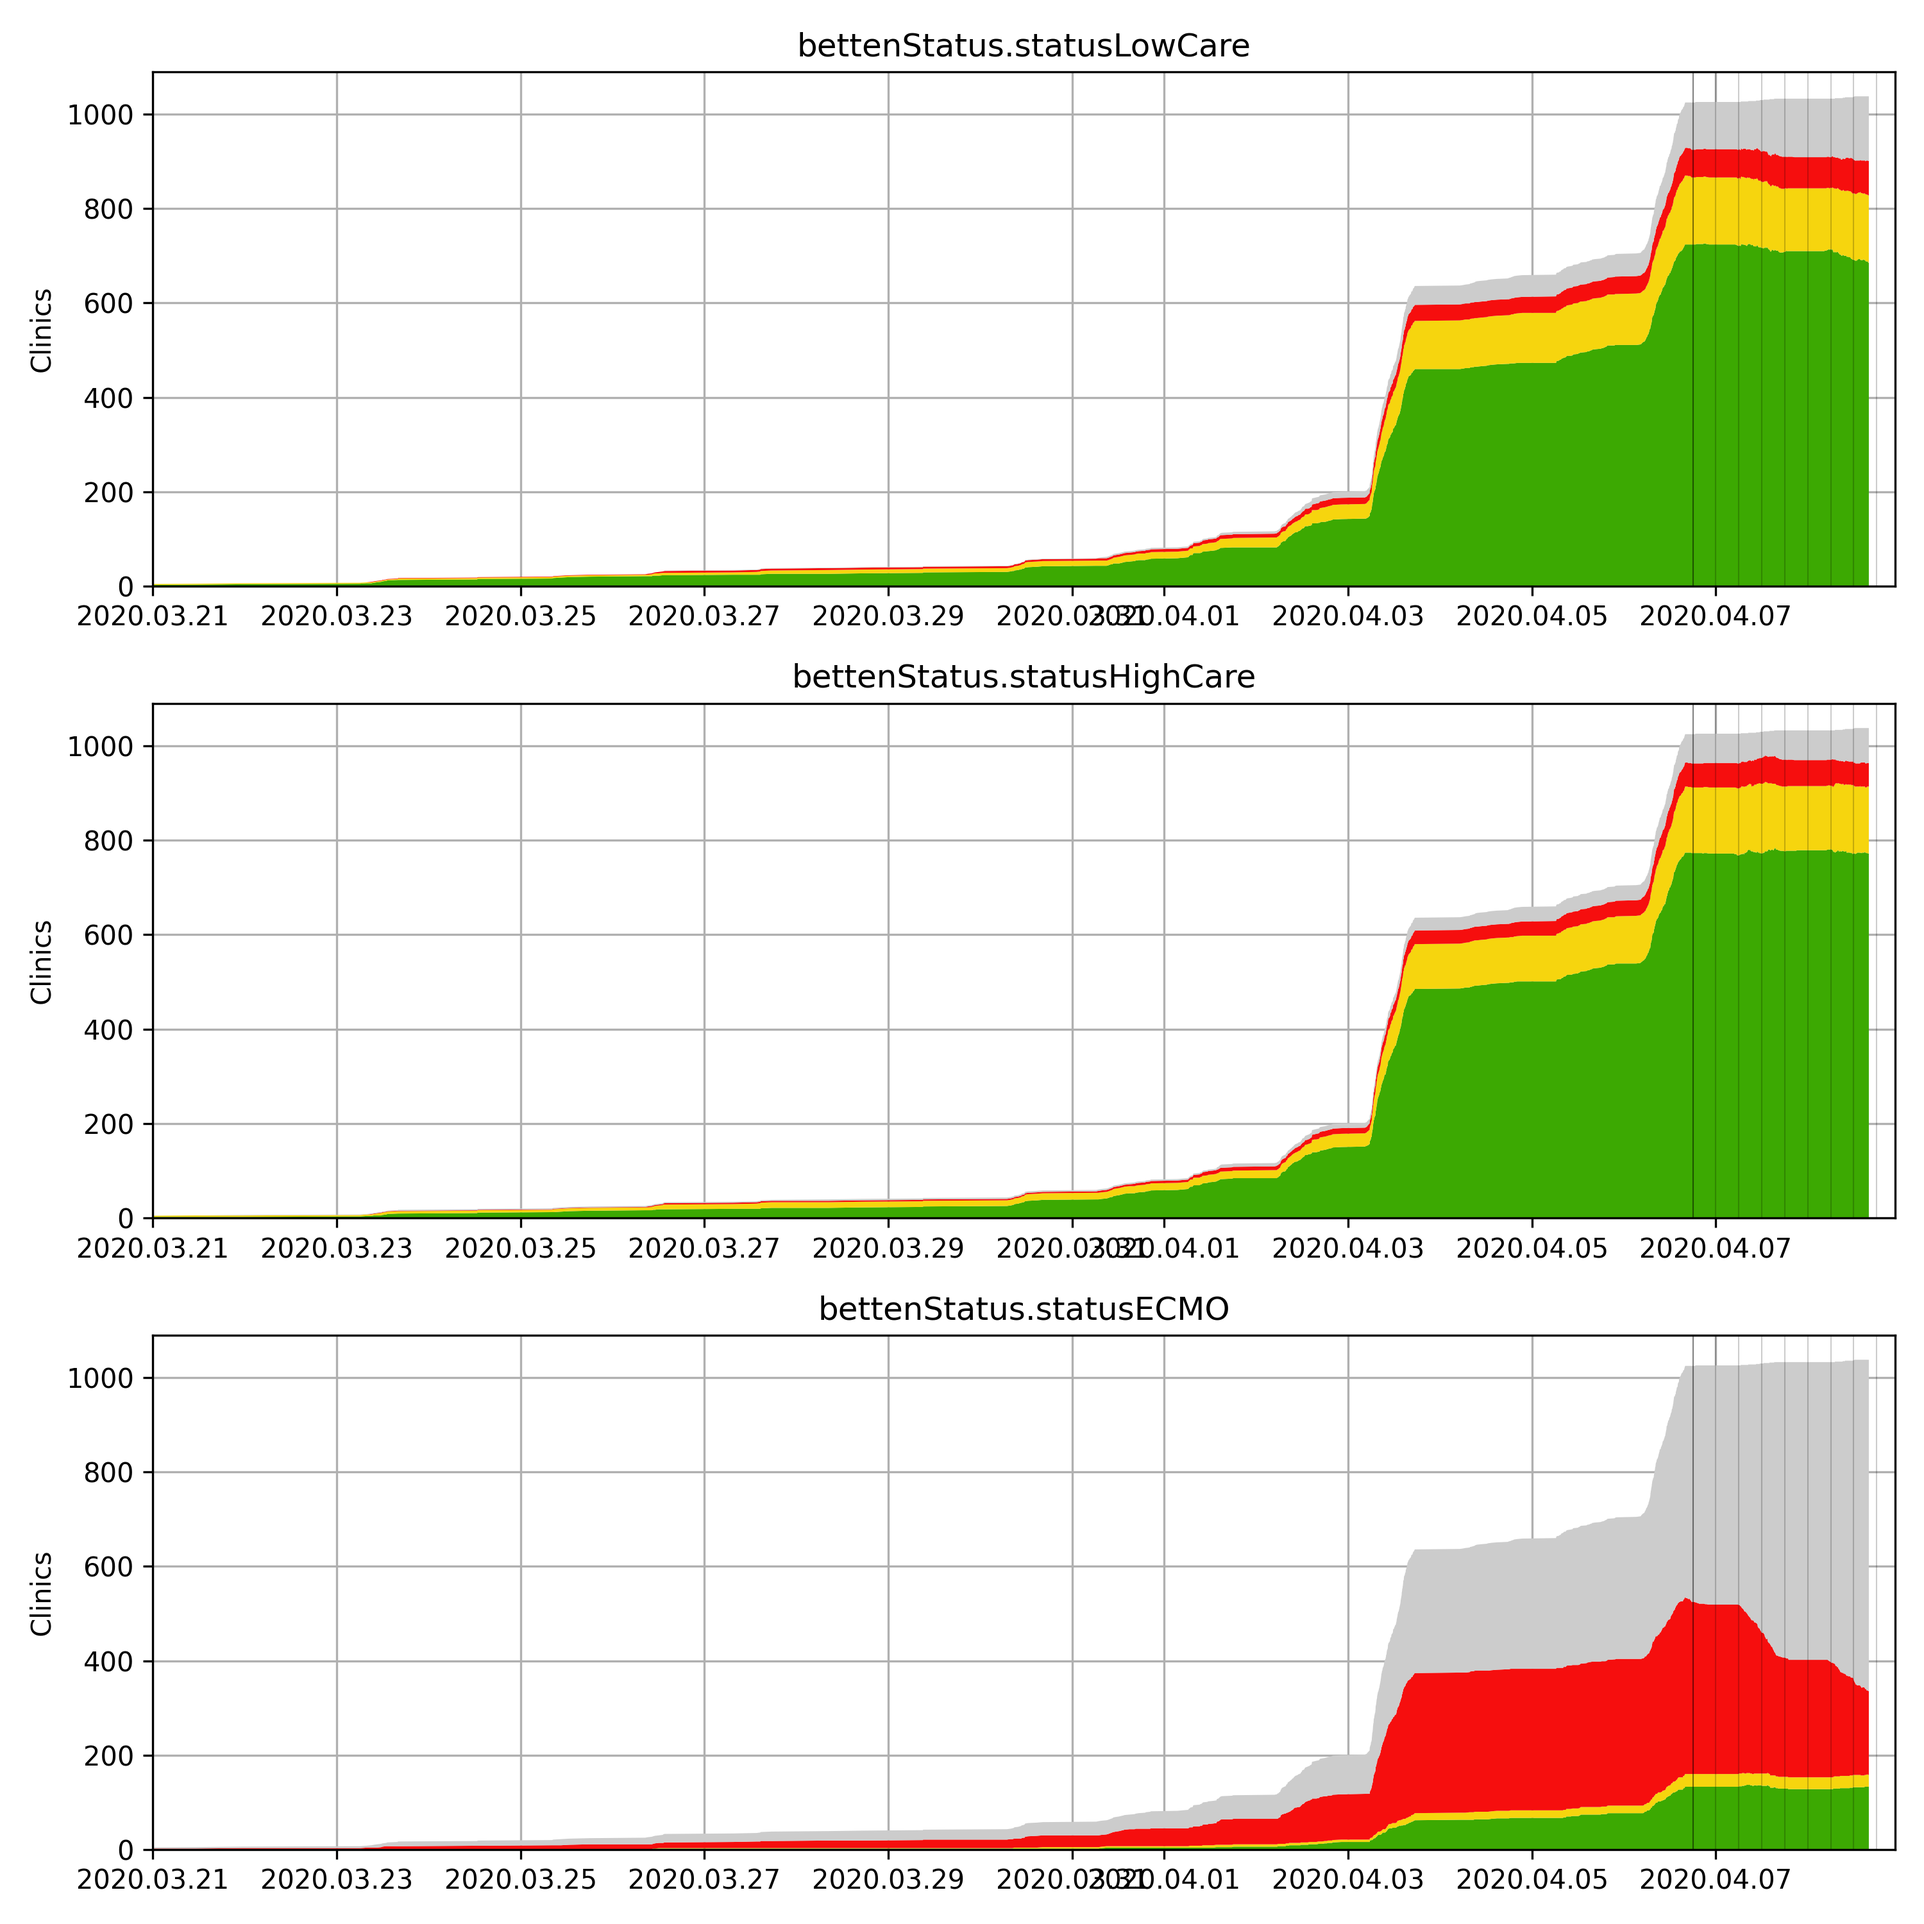
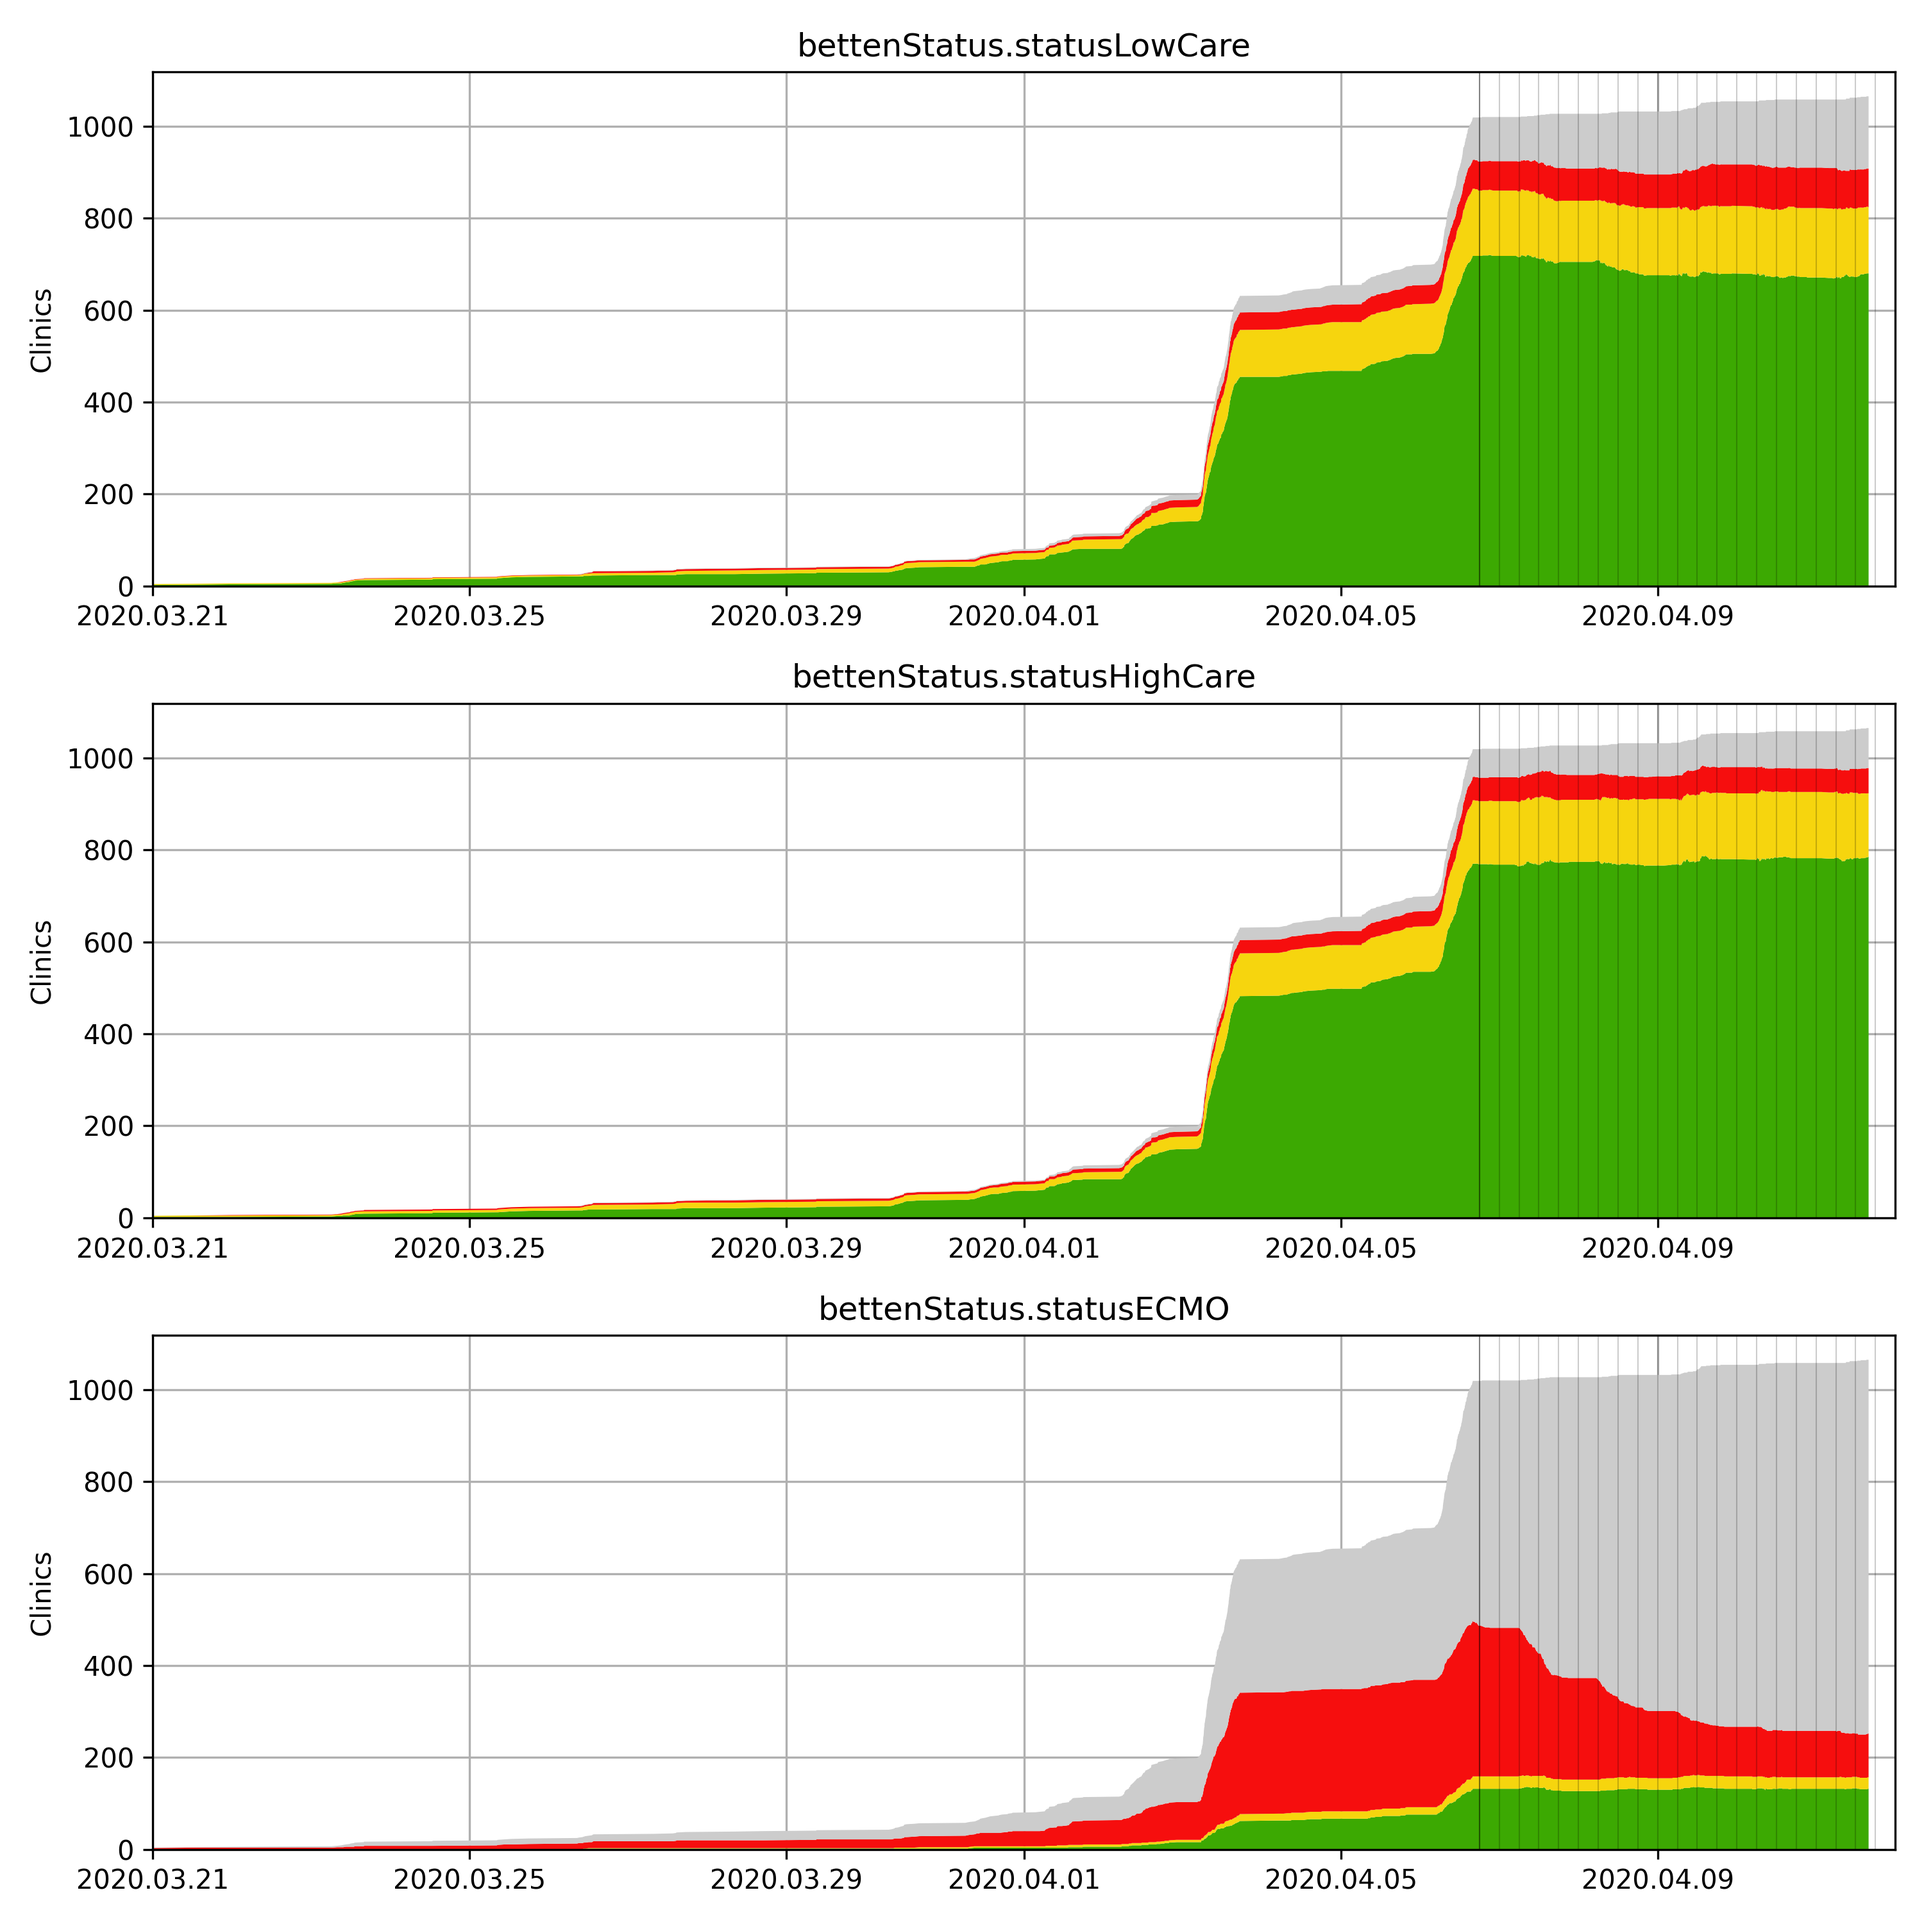
Fix parsing of meldebereiche

diff --git a/ICU_Plotting.py b/ICU_Plotting.py
@@ -49,13 +49,19 @@ data = raw_data.copy()  # keep raw data
 data = data.drop(data[data.id == "999999"].index)
 data.faelleCovidAktuell = data.faelleCovidAktuell.fillna(value=0)
 data.faelleCovidAktuell = data.faelleCovidAktuell.astype("int")
+# newer data contains meldebereiche as list, unhashable -> cast to str for now
+if "meldebereiche" in data.columns: 
+    data.meldebereiche = data.meldebereiche.astype("str")
 
 
 data_unique = pd.DataFrame()
 for clinic in clinics:
-    data_unique = data_unique.append(
-        data[data.id == clinic].drop_duplicates(), ignore_index=True
-    )
+    try:
+        data_unique = data_unique.append(
+            data[data.id == clinic].drop_duplicates(), ignore_index=True
+        )
+    except TypeError:
+        print(data[data.id == clinic])
 data_unique = data_unique.sort_values("meldezeitpunkt")
 print(f"{len(data_unique)} unique reports")
 
